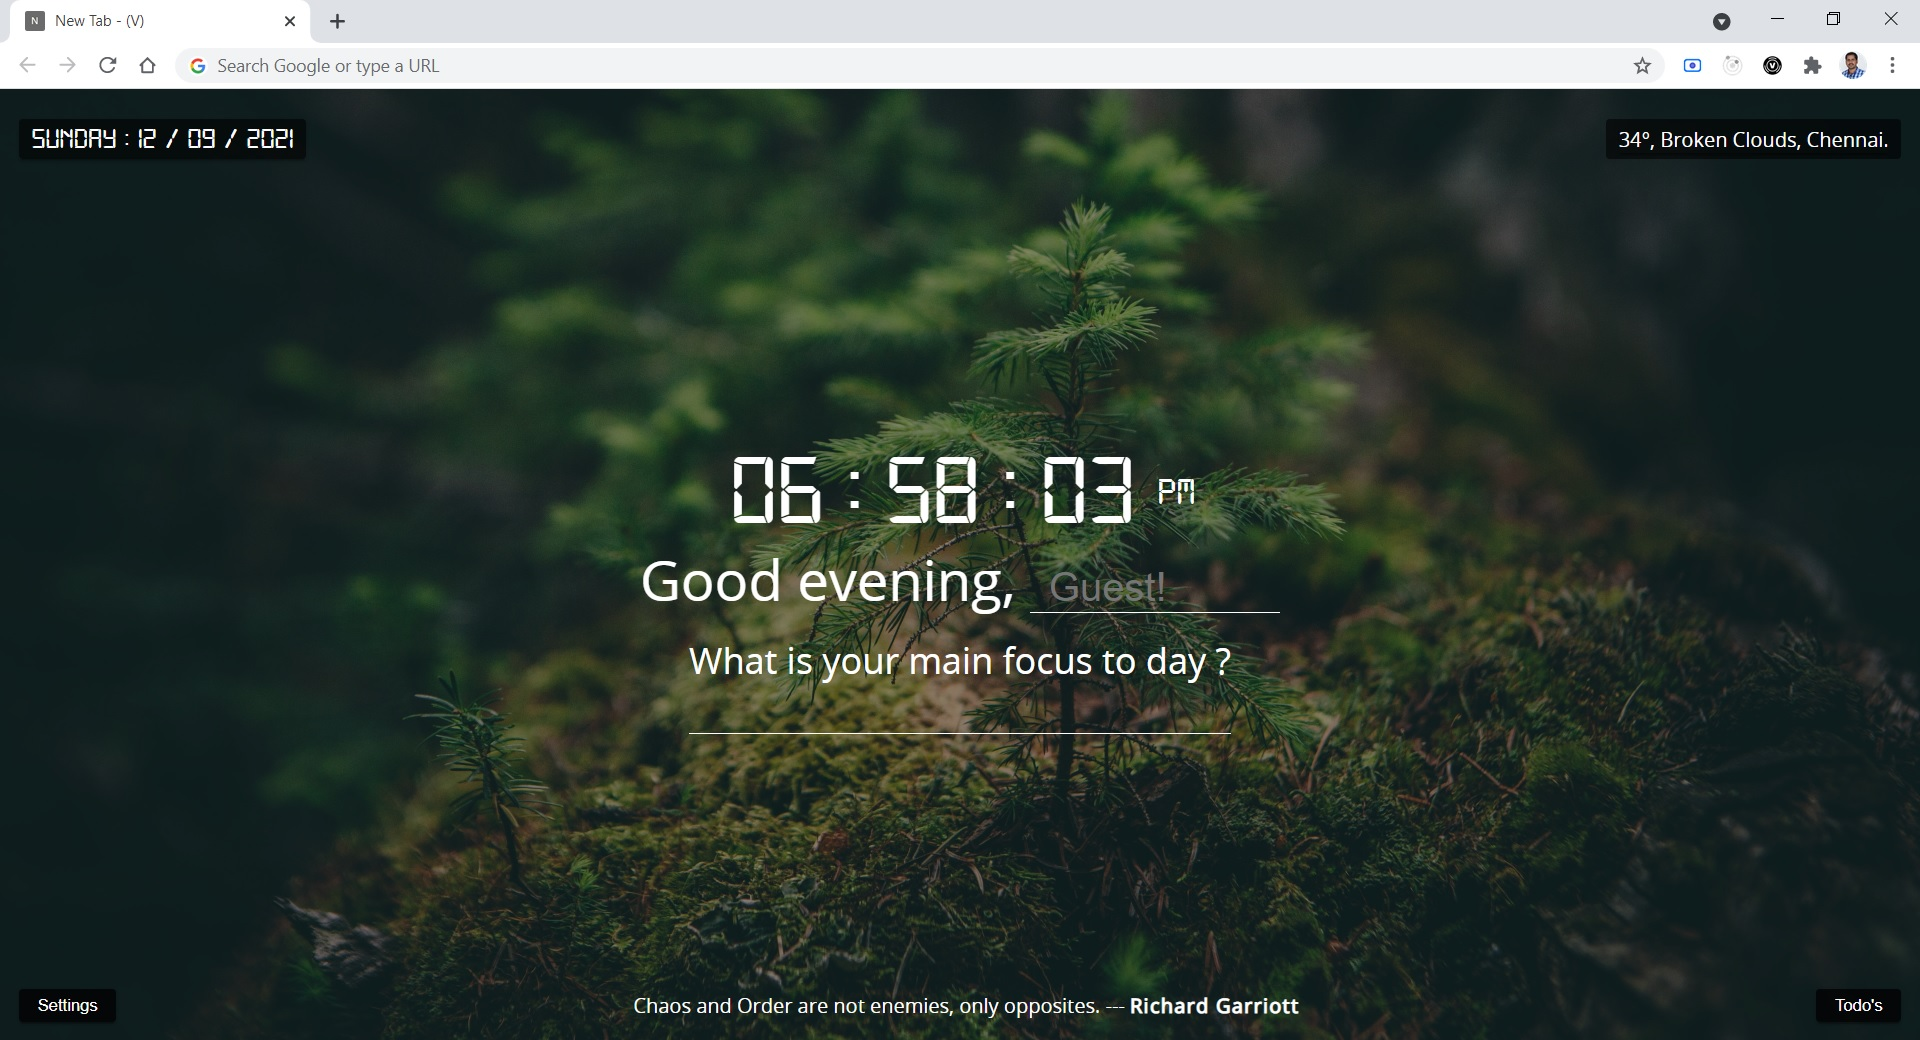
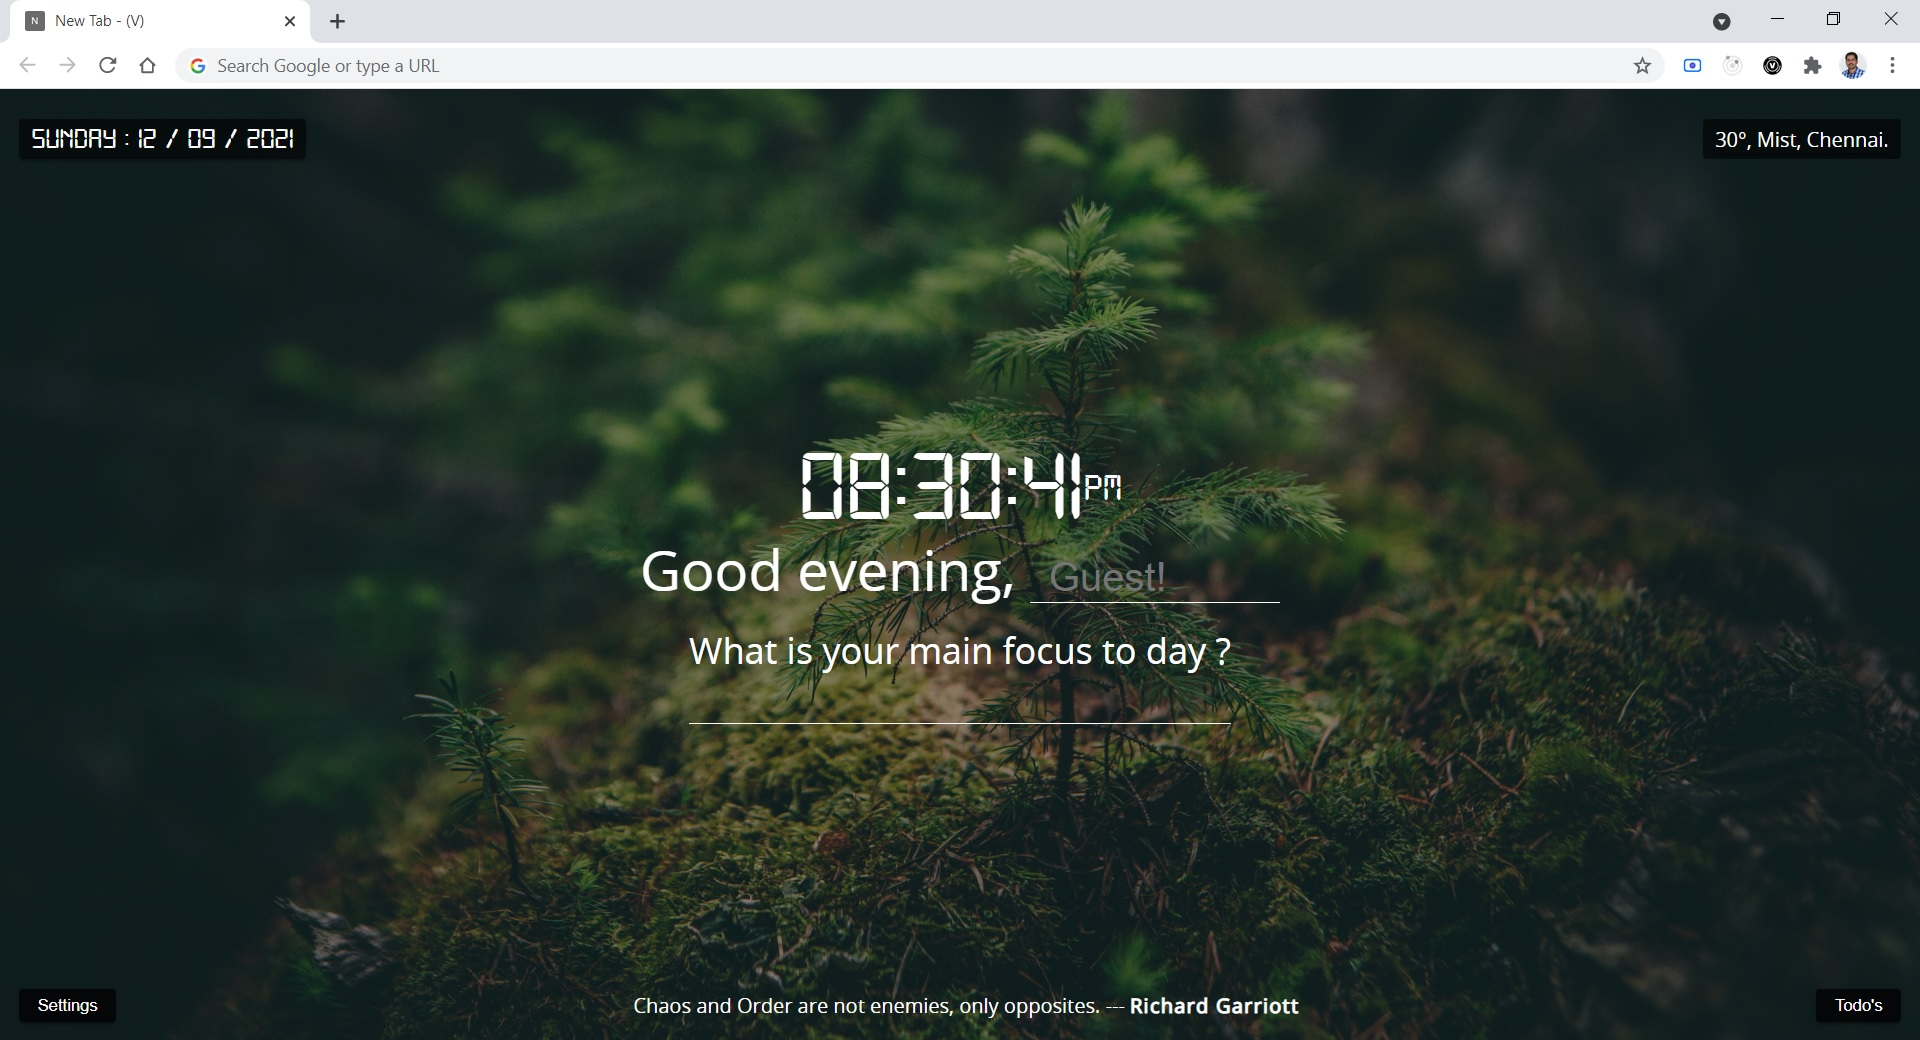
time format switch enabled

Changed region(s): [[0.3125, 0.4308, 0.625, 0.5846], [0.3438, 0.6154, 0.6562, 0.6462], [0.8438, 0.1231, 0.9375, 0.1538]]

diff --git a/NewTab/index.js b/NewTab/index.js
@@ -16,7 +16,10 @@ let backgroundImage = document.getElementById('backgroundImage');
 
 const BgOnOffCheckbox = document.getElementById('bg_checkbox');
 const BgRefresh = document.getElementById('bg_refresh');
+const BgCategory = document.getElementById('bg_image_categ');
 const BgReloadBtn = document.getElementById('bg_reload');
+
+const TimeFormatOnOffCheckbox = document.getElementById('time_checkbox');
 
 const page = document.getElementById('bg_color_palette');
 const bgColorDiv = document.getElementById('bg_color_wrapper');
@@ -60,6 +63,7 @@ today();
 function getHours() {
   let time = new Date();
   chrome.storage.sync.get('twofourtimeformat', (data) => {
+    console.log('Test: ', data.twofourtimeformat);
     const timeformat = data.twofourtimeformat;
     if (timeformat) {
       if (time.getHours() >= 12) {
@@ -76,7 +80,7 @@ function getHours() {
       }
     }
     else{
-      document.querySelector('#ampm').innerHTML = '';
+      document.querySelector('#ampm').innerHTML = ' ';
       document.querySelector('#hours').innerHTML = prefixZero(time.getHours());
     }
   });
@@ -254,11 +258,26 @@ todosBtn.addEventListener('click', function () {
   }
 });
 
+TimeFormatOnOffCheckbox.addEventListener('click', function () {
+  let twofourtimeformat = null;
+  if(TimeFormatOnOffCheckbox.checked) {
+    twofourtimeformat = false;
+    chrome.storage.sync.set({ twofourtimeformat });
+    getHours();
+  }
+  else {
+    twofourtimeformat = true;
+    chrome.storage.sync.set({ twofourtimeformat });
+    getHours();
+  }
+});
+
 chrome.storage.sync.get('isbackground', (data) => {
   const BgImage = data.isbackground;
   if (BgImage) {
     BgOnOffCheckbox.checked = true;
     BgRefresh.classList.remove('disable');
+    BgCategory.classList.remove('disable');
   }
   else {
     BgOnOffCheckbox.checked = false;
@@ -270,11 +289,13 @@ BgOnOffCheckbox.addEventListener('click', function () {
   if(BgOnOffCheckbox.checked) {
     backgroundImage.classList.remove('hide');
     BgRefresh.classList.remove('disable');
+    BgCategory.classList.remove('disable');
     bgColorDiv.classList.add('disable');
   }
   else {
     backgroundImage.classList.add('hide');
     BgRefresh.classList.add('disable');
+    BgCategory.classList.add('disable');
     bgColorDiv.classList.remove('disable');
   }
 });

diff --git a/NewTab/index.css b/NewTab/index.css
@@ -212,15 +212,14 @@ input[type="text"] {
 }
 
 .time {
+  display: flex;
+  align-items: center;
   margin-top: 0.5rem;
   font-size: 5rem;
 }
 
 .time span {
   display: inline-block;
-  margin-right: -4px;
-  vertical-align: middle;
-  line-height: 1;
 }
 
 #ampm {
@@ -291,7 +290,8 @@ input[type="text"] {
   font-size: 0.9rem;
 }
 
-.option.bg-color {
+.option.bg-color,
+.option.bg_category {
   flex-direction: column;
   align-items: flex-start;
 }
@@ -319,7 +319,7 @@ input[type="text"] {
 .switch {
   position: relative;
   display: inline-block;
-  font-size: 20px;
+  font-size: 1rem;
   height: 1rem;
   width: 2rem;
   background: #ffffff;
@@ -328,18 +328,17 @@ input[type="text"] {
 }
 
 .switch div {
-  height: 0.8rem;
-  width: 0.8rem;
-  margin: 1px 2px;
+  height: 1rem;
+  width: 1rem;
   border-radius: 0.8em;
-  background: #333333;
+  background: #dc004e;
   box-shadow: 0 0.1rem 0.3rem rgba(0,0,0,0.3);
   transition: all 300ms;
 }
 
 .switch input:checked + div {
   background: #79e902;
-  transform: translate3d(120%, 0, 0);
+  transform: translate3d(100%, 0, 0);
 }
 
 

diff --git a/NewTab/index.html b/NewTab/index.html
@@ -68,6 +68,13 @@
     </div>
     <div id="settings_model" class="model model_settings shadow">
       <div class="option">
+        <span>Time format 24 hours</span>
+        <label class="switch">
+          <input id="time_checkbox" type="checkbox" />
+          <div></div>
+        </label>
+      </div>
+      <div class="option">
         <span>Background image</span>
         <label class="switch">
           <input id="bg_checkbox" type="checkbox" />
@@ -77,6 +84,14 @@
       <div id="bg_refresh" class="option disable">
         <span>Change background image</span>
         <span id="bg_reload" class=reload>&#x21bb;</span>
+      </div>
+      <div id="bg_image_categ" class="option disable">
+        <span>Image category</span>
+        <select>
+          <option>Animals</option>
+          <option>Beach</option>
+          <option>Nature</option>
+        </select>
       </div>
       <div id="bg_color_wrapper" class="option bg-color disable">
         <div>Change background color</div>
